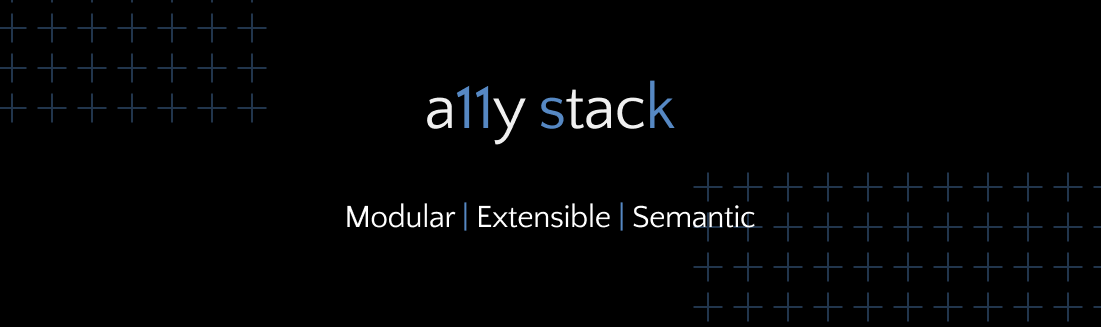
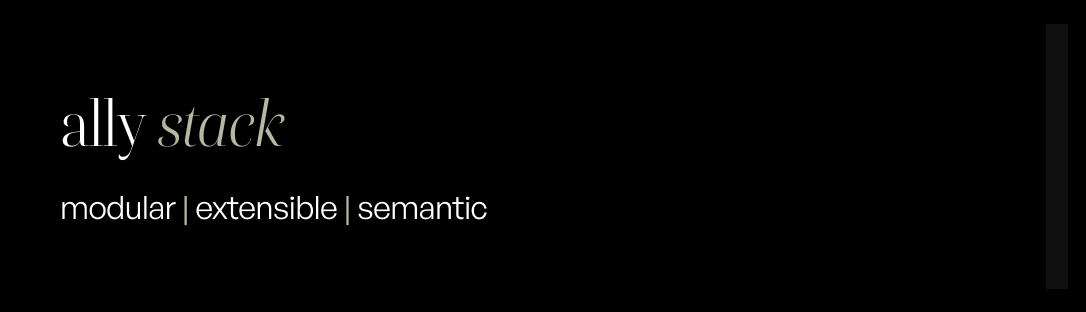
chore: update site branding assets

diff --git a/components/globals/SiteLogo.tsx b/components/globals/SiteLogo.tsx
@@ -16,7 +16,13 @@ export default function SiteLogo({
       xmlns="http://www.w3.org/2000/svg"
       aria-hidden="true"
       focusable="false"
+      role="img"
+      aria-describedby="logo logo-description"
     >
+      <title id="logo-title">a11y stack logo</title>
+      <desc id="logo-description">
+        The letters &apos;a&apos; and &apos;s&apos; in uppercase{" "}
+      </desc>
       <rect width="250" height="250" fill={fill} />
       <path
         d="M58.1779 190.915V192.402H28.0723V190.915C31.6651 190.915 34.3907 190.729 36.2491 190.357C38.2314 189.861 39.718 188.993 40.7092 187.754C41.7004 186.39 42.6295 184.407 43.4967 181.804L82.7084 57.5979H85.6817L126.194 190.915H138.274V192.402H99.6195V190.915H113.186C113.062 189.799 112.814 188.621 112.442 187.382C112.071 186.018 111.699 184.717 111.327 183.477L101.106 149.451H55.762L45.1693 182.362C44.9214 183.353 44.7356 184.221 44.6118 184.965C44.4879 185.584 44.4259 186.266 44.4259 187.01C44.4259 188.249 44.9214 189.241 45.9126 189.985C46.9038 190.605 49.0099 190.915 52.2311 190.915H58.1779ZM56.1337 147.963H100.735L78.9916 75.2619L56.1337 147.963Z"
